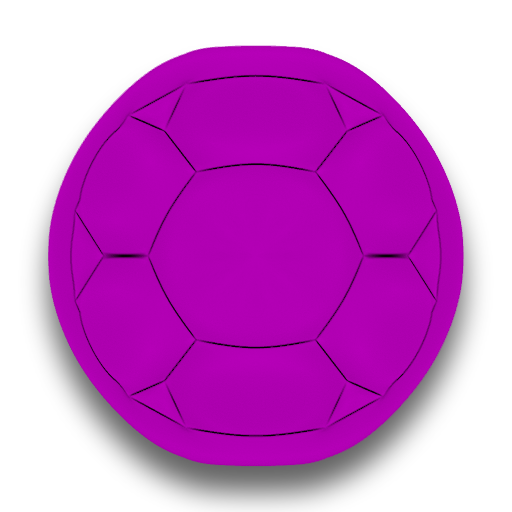
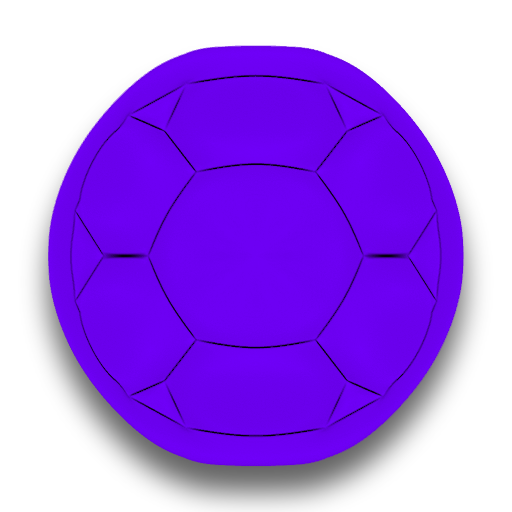
reskin-complete: brighter violet turtle so all seven gems read at board scale

diff --git a/Assets/Reskin/SOURCES.md b/Assets/Reskin/SOURCES.md
@@ -4,7 +4,7 @@ Placeholder set for participants without Scenario access. NOT studio art.
 
 - Tool: Pillow 11 (hue rotation / tint) over the shipped Gem Hunter sprites
   (`Images/Gameplay pieces/Sprite_*Item.png`, `Images/UI/Gems/SP_Gem_*.png`).
-- Per gem: Blue→hue 25°, Green→300°, Purple→175°, Red→95°, Yellow→205°,
+- Per gem: Blue→hue 25°, Green→268° (value ×1.35), Purple→175°, Red→95°, Yellow→205°,
   White→warm gold tint, Amethyst→pink tint (1.0, 0.42, 0.68) of the White sprite (baked, so the
   prefab tint is reset to white on this branch).
 - Import settings copied from the samples: Sprite/Single, PPU 512, centre pivot,
